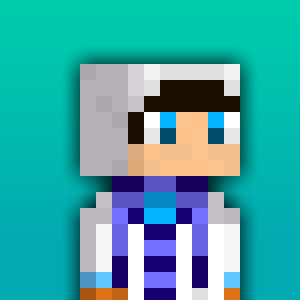
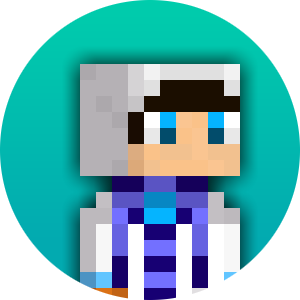
简单完成了一个托盘图标

diff --git a/ui/Main.qml b/ui/Main.qml
@@ -1,13 +1,8 @@
 import QtQuick
-import Qt.labs.platform
 
 Window {
     width: 640
     height: 480
     visible: true
     title: qsTr("Hello World")
-
-    SystemTrayIcon {
-        visible: true
-    }
 }

diff --git a/src/application.cpp b/src/application.cpp
@@ -4,22 +4,33 @@
 
 #include "application.hpp"
 
-Application::Application(int argc, char **argv) : app(argc, argv){
+#include "tray_icon/menu_manager.hpp"
+#include "tray_icon/exit_action.hpp"
+
+Application::Application(int argc, char **argv)
+        : application(argc, argv),
+          trayIconManager(&application) {
     init();
 }
 
 int Application::exec() {
-    return QGuiApplication::exec();
+    return QApplication::exec();
 }
 
 void Application::init() {
     const QUrl url(u"qrc:/qt/qml/dawdle_live/ui/Main.qml"_qs);
-    const auto result = QObject::connect(
-            &engine,
-            &QQmlApplicationEngine::objectCreationFailed,
-            &app,
-            []() { QCoreApplication::exit(-1); },
-            Qt::QueuedConnection);
-    Q_ASSERT(result);
     engine.load(url);
+    loadMenu();
+}
+
+void Application::loadMenu() {
+    auto exitAction = new tray_icon::menu::action::ExitAction{};
+
+    auto menuManager = new tray_icon::menu::MenuManager{};
+    menuManager->addAction(exitAction);
+
+    trayIconManager.setIcon(":/res/img/icon.png");
+    trayIconManager.setToolTip("dawdle live");
+    trayIconManager.setMenu(menuManager->getMenu());
+    trayIconManager.show();
 }

diff --git a/src/tray_icon/tray_icon_manager.cpp b/src/tray_icon/tray_icon_manager.cpp
@@ -1,0 +1,39 @@
+//
+// Created by cvrain-thinkbook on 2024/7/16.
+//
+
+#include "tray_icon_manager.hpp"
+
+namespace tray_icon {
+
+    TrayIconManager::TrayIconManager(QObject* parent) : trayIcon(new QSystemTrayIcon{parent}) {
+
+    }
+
+    TrayIconManager::~TrayIconManager() {
+        if (trayIcon != nullptr) {
+            delete trayIcon;
+            trayIcon = nullptr;
+        }
+    }
+
+    void TrayIconManager::setIcon(const QString &iconPath) {
+        trayIcon->setIcon(QIcon(iconPath));
+    }
+
+    void TrayIconManager::setToolTip(const QString &toolTip) {
+        trayIcon->setToolTip(toolTip);
+    }
+
+    void TrayIconManager::setMenu(QMenu *menu) {
+        trayIcon->setContextMenu(menu);
+    }
+
+    void TrayIconManager::show() {
+        trayIcon->show();
+    }
+
+    void TrayIconManager::hide() {
+        trayIcon->hide();
+    }
+}

diff --git a/src/tray_icon/tray_icon_manager.hpp b/src/tray_icon/tray_icon_manager.hpp
@@ -1,0 +1,35 @@
+//
+// Created by cvrain-thinkbook on 2024/7/16.
+//
+
+#ifndef DAWDLE_LIVE_TRAY_ICON_MANAGER_HPP
+#define DAWDLE_LIVE_TRAY_ICON_MANAGER_HPP
+
+#include <QSystemTrayIcon>
+#include <QSharedMemory>
+#include <QString>
+
+namespace tray_icon {
+    class TrayIconManager {
+    public:
+        explicit TrayIconManager(QObject *parent = nullptr);
+
+        ~TrayIconManager();
+
+        void setIcon(const QString &iconPath);
+
+        void setToolTip(const QString &toolTip);
+
+        void setMenu(QMenu *menu);
+
+        void show();
+
+        void hide();
+
+    private:
+        QSystemTrayIcon *trayIcon;
+    };
+}
+
+
+#endif //DAWDLE_LIVE_TRAY_ICON_MANAGER_HPP

diff --git a/src/tray_icon/menu_manager.cpp b/src/tray_icon/menu_manager.cpp
@@ -1,0 +1,27 @@
+//
+// Created by cvrain-thinkbook on 2024/7/16.
+//
+
+#include "menu_manager.hpp"
+
+namespace tray_icon::menu {
+    MenuManager::MenuManager(): menu(QSharedPointer<QMenu>::create()) {
+
+    }
+
+    void MenuManager::addAction(QAction *action) {
+        menu->addAction(action);
+    }
+
+    void MenuManager::addSeparator() {
+        menu->addSeparator();
+    }
+
+    void MenuManager::removeAction(QAction *action) {
+        menu->removeAction(action);
+    }
+
+    QMenu *MenuManager::getMenu() {
+        return menu.data();
+    }
+}

diff --git a/src/tray_icon/base_action.cpp b/src/tray_icon/base_action.cpp
@@ -1,0 +1,23 @@
+//
+// Created by cvrain-thinkbook on 2024/7/16.
+//
+
+#include "base_action.hpp"
+
+namespace tray_icon::menu::action {
+
+    BaseAction::BaseAction(QObject *parent) : QAction(parent) {
+        const auto result = connect(this, &QAction::triggered, this, &BaseAction::onTriggered);
+        Q_ASSERT(result);
+    }
+
+    BaseAction::~BaseAction() = default;
+
+    void BaseAction::onTriggered() {
+        try {
+            execute();
+        } catch (std::exception &e) {
+            qDebug() << e.what();
+        }
+    }
+}

diff --git a/src/tray_icon/menu_manager.hpp b/src/tray_icon/menu_manager.hpp
@@ -1,0 +1,25 @@
+//
+// Created by cvrain-thinkbook on 2024/7/16.
+//
+
+#ifndef DAWDLE_LIVE_MENU_MANAGER_HPP
+#define DAWDLE_LIVE_MENU_MANAGER_HPP
+
+#include <QMenu>
+#include <QSharedMemory>
+
+namespace tray_icon::menu {
+    class MenuManager{
+    public:
+        explicit MenuManager();
+        void addAction(QAction* action);
+        void addSeparator();
+        void removeAction(QAction* action);
+        QMenu* getMenu();
+    private:
+        QSharedPointer<QMenu> menu;
+    };
+}
+
+
+#endif //DAWDLE_LIVE_MENU_MANAGER_HPP

diff --git a/src/application.hpp b/src/application.hpp
@@ -4,11 +4,10 @@
 
 #pragma once
 
-#include <QGuiApplication>
+#include <QApplication>
 #include <QQmlApplicationEngine>
 
-#include "component/tray_icon.hpp"
-
+#include "tray_icon/tray_icon_manager.hpp"
 
 class Application final {
 public:
@@ -16,8 +15,9 @@ public:
     static int exec();
 protected:
     void init();
+    void loadMenu();
 private:
-    QGuiApplication app;
+    QApplication application;
     QQmlApplicationEngine engine;
-    component::TrayIcon trayIcon{};
+    tray_icon::TrayIconManager trayIconManager{};
 };

diff --git a/src/tray_icon/base_action.hpp b/src/tray_icon/base_action.hpp
@@ -1,0 +1,28 @@
+//
+// Created by cvrain-thinkbook on 2024/7/16.
+//
+
+#ifndef DAWDLE_LIVE_BASE_ACTION_HPP
+#define DAWDLE_LIVE_BASE_ACTION_HPP
+
+#include <QAction>
+
+namespace tray_icon::menu::action {
+    class BaseAction : public QAction {
+    Q_OBJECT
+
+    public:
+        explicit BaseAction(QObject *parent = nullptr);
+
+        ~BaseAction() override;
+
+        virtual void execute() = 0;
+
+    protected slots:
+
+        void onTriggered();
+    };
+}
+
+
+#endif //DAWDLE_LIVE_BASE_ACTION_HPP

diff --git a/src/tray_icon/setting_action.hpp b/src/tray_icon/setting_action.hpp
@@ -1,0 +1,24 @@
+//
+// Created by cvrain on 24-7-16.
+//
+
+#ifndef DAWDLE_LIVE_SETTING_ACTION_HPP
+#define DAWDLE_LIVE_SETTING_ACTION_HPP
+
+#include "base_action.hpp"
+
+namespace tray_icon::menu::action {
+    class SettingAction : public BaseAction {
+    Q_OBJECT
+
+    public:
+        explicit SettingAction(QObject *parent = nullptr);
+
+        ~SettingAction() override = default;
+
+        void execute() override;
+    };
+}
+
+
+#endif //DAWDLE_LIVE_SETTING_ACTION_HPP

diff --git a/src/tray_icon/exit_action.hpp b/src/tray_icon/exit_action.hpp
@@ -1,0 +1,24 @@
+//
+// Created by cvrain-thinkbook on 2024/7/16.
+//
+
+#ifndef DAWDLE_LIVE_EXIT_ACTION_HPP
+#define DAWDLE_LIVE_EXIT_ACTION_HPP
+
+#include "base_action.hpp"
+
+namespace tray_icon::menu::action {
+    class ExitAction : public BaseAction {
+    Q_OBJECT
+
+    public:
+        explicit ExitAction(QObject *parent = nullptr);
+
+        ~ExitAction() override = default;
+
+        void execute() override;
+    };
+}
+
+
+#endif //DAWDLE_LIVE_EXIT_ACTION_HPP

diff --git a/src/main.cpp b/src/main.cpp
@@ -1,7 +1,15 @@
 #include "application.hpp"
 
-int main(int argc, char *argv[]) {
-    Application application{argc,argv};
+#include <QSystemTrayIcon>
+#include <QMenu>
+#include <QAction>
 
-    return  Application::exec();
+#include "tray_icon/tray_icon_manager.hpp"
+#include "tray_icon/menu_manager.hpp"
+#include "tray_icon/exit_action.hpp"
+
+int main(int argc, char *argv[]) {
+    Application application{argc, argv};
+
+    return Application::exec();
 }
